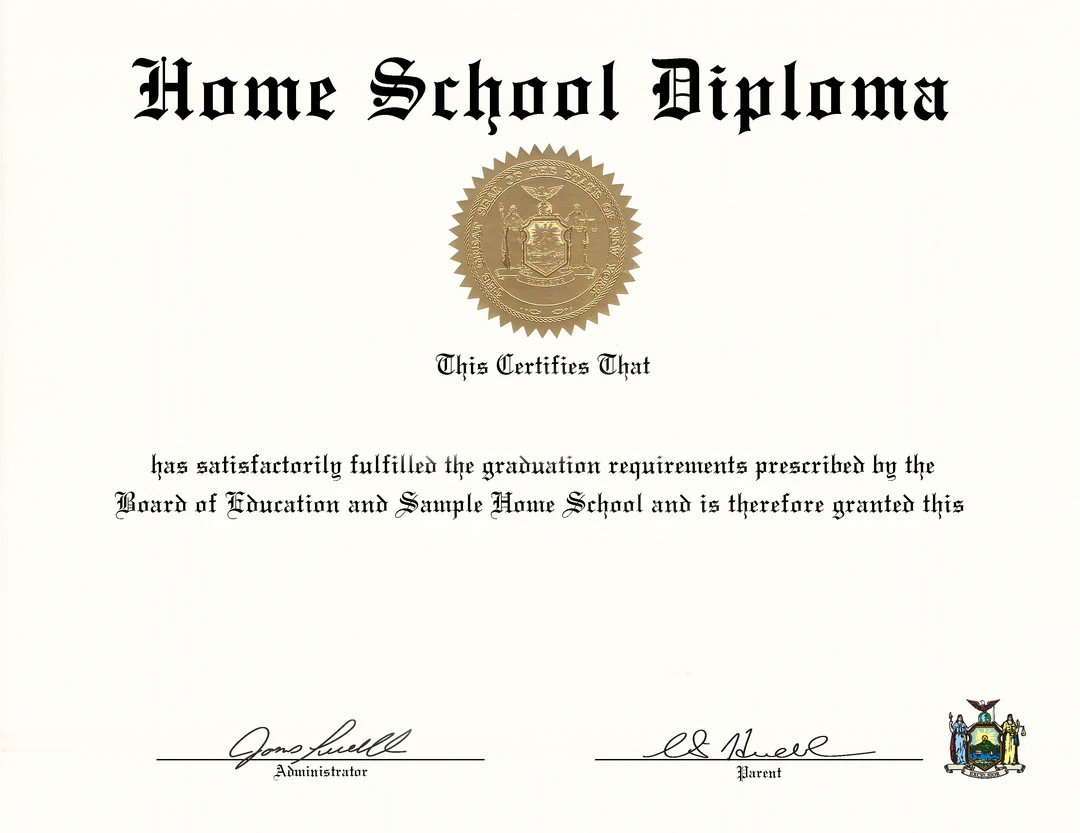
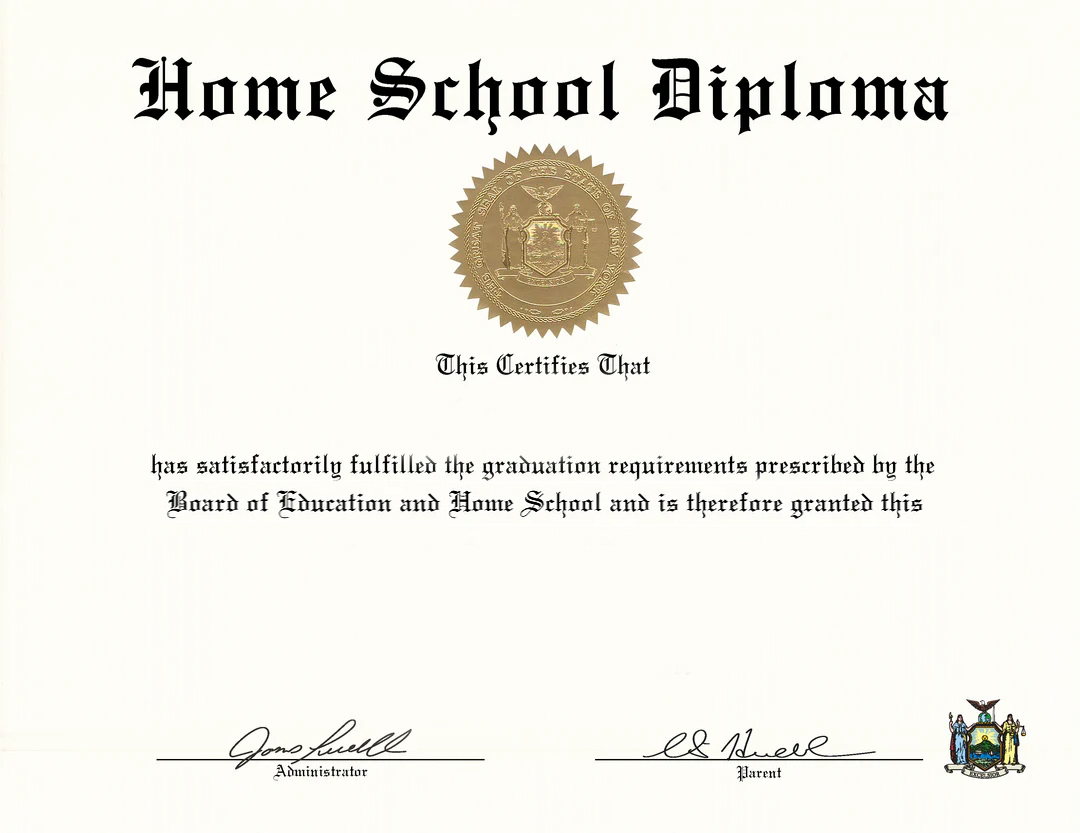
final chage in transcript and diploma

Changed region(s): [[0.0917, 0.593, 0.8861, 0.6242]]

diff --git a/client/src/pages/TranscriptPreview.js b/client/src/pages/TranscriptPreview.js
@@ -5,6 +5,21 @@ import { toPng } from 'html-to-image';
 import axios from 'axios';
 import { useParams } from 'react-router-dom';
 
+function getGradeAndGPA(percent) {
+  if (percent >= 97) return { grade: "A+", gpa: 4.0 };
+  if (percent >= 93) return { grade: "A", gpa: 4.0 };
+  if (percent >= 90) return { grade: "A-", gpa: 3.7 };
+  if (percent >= 87) return { grade: "B+", gpa: 3.3 };
+  if (percent >= 83) return { grade: "B", gpa: 3.0 };
+  if (percent >= 80) return { grade: "B-", gpa: 2.7 };
+  if (percent >= 77) return { grade: "C+", gpa: 2.3 };
+  if (percent >= 73) return { grade: "C", gpa: 2.0 };
+  if (percent >= 70) return { grade: "C-", gpa: 1.7 };
+  if (percent >= 67) return { grade: "D+", gpa: 1.3 };
+  if (percent >= 65) return { grade: "D", gpa: 1.0 };
+  return { grade: "E/F", gpa: 0.0 };
+}
+
 function TranscriptPreview() {
   const ref = useRef();
   const { id } = useParams();
@@ -12,14 +27,6 @@ function TranscriptPreview() {
   const [user, setUser] = useState(null);
   const [error, setError] = useState('');
   const [loading, setLoading] = useState(true);
-
-  const calculateGPAFromPercent = (percent) => {
-    if (percent >= 90) return 4.0;
-    if (percent >= 80) return 3.0;
-    if (percent >= 70) return 2.0;
-    if (percent >= 60) return 1.0;
-    return 0.0;
-  };
 
   const exportToImage = () => {
     if (!ref.current) return;
@@ -39,7 +46,6 @@ function TranscriptPreview() {
         const [studentRes, userRes] = await Promise.all([
          axios.get(`${process.env.REACT_APP_API_URL}/api/students/${id}`, { withCredentials: true }),
          axios.get(`${process.env.REACT_APP_API_URL}/api/users/me`, { withCredentials: true })
-
         ]);
         setStudent(studentRes.data);
         setUser(userRes.data);
@@ -59,8 +65,6 @@ function TranscriptPreview() {
     return <DashboardLayout><p className="text-danger text-center p-5">{error}</p></DashboardLayout>;
 
   const gradeNum = parseInt(student.grade);
-
-  // Total credits logic (respects creditDef)
   const creditDef = user?.state?.creditDefinition || '';
   const isPrimary = !isNaN(gradeNum) && gradeNum <= 5;
 
@@ -79,6 +83,94 @@ function TranscriptPreview() {
       return sum + (subj.isCompleted ? (subj.creditHours || 0) : 0);
     }
   }, 0);
+
+  // GPA calculation for grades 6+ only, using weighted average of course GPA by credits
+  let cumulativeGPA = null;
+  let courseRows = [];
+  if ((creditDef === 'Carnegie Unit' || creditDef === 'Local') && gradeNum >= 6) {
+    let totalWeightedGPA = 0;
+    let totalEarnedCredits = 0;
+    courseRows = student.subjects.map((subj, idx) => {
+      const credit = subj.creditHours || 0;
+      const logs = subj.dailyLogs || [];
+      let percent = null;
+      if (subj.totalMarks > 0 && subj.obtainedMarks >= 0) {
+        percent = (subj.obtainedMarks / subj.totalMarks) * 100;
+      }
+      if (percent === null || isNaN(percent)) {
+        const validLogs = logs.filter(log => typeof log.percentage === 'number');
+        if (validLogs.length > 0) {
+          const sum = validLogs.reduce((acc, log) => acc + log.percentage, 0);
+          percent = sum / validLogs.length;
+        }
+      }
+      let gradeInfo = { grade: "Incomplete", gpa: "–" };
+      let earnedCredits = "0.00";
+      if (percent != null) {
+        gradeInfo = getGradeAndGPA(percent);
+        earnedCredits = credit.toFixed(2);
+        totalWeightedGPA += gradeInfo.gpa * credit;
+        totalEarnedCredits += credit;
+      }
+      return (
+        <div className="table-row" key={idx}>
+          <div className="w-50">{subj.subjectName}</div>
+          <div>{percent != null ? `${Math.round(percent)}% (${gradeInfo.grade})` : "Incomplete"}</div>
+          <div>{earnedCredits}</div>
+          <div>{gradeInfo.gpa !== "–" ? gradeInfo.gpa.toFixed(2) : "–"}</div>
+        </div>
+      );
+    });
+    cumulativeGPA = totalEarnedCredits > 0 ? (totalWeightedGPA / totalEarnedCredits) : 0;
+  } else {
+    // For lower grades or other credit types
+    courseRows = student.subjects.map((subj, idx) => {
+      const credit = subj.creditHours || 0;
+      const logs = subj.dailyLogs || [];
+      let percent = null;
+      if (subj.totalMarks > 0 && subj.obtainedMarks >= 0) {
+        percent = (subj.obtainedMarks / subj.totalMarks) * 100;
+      }
+      if (percent === null || isNaN(percent)) {
+        const validLogs = logs.filter(log => typeof log.percentage === 'number');
+        if (validLogs.length > 0) {
+          const sum = validLogs.reduce((acc, log) => acc + log.percentage, 0);
+          percent = sum / validLogs.length;
+        }
+      }
+      let gradeInfo = { grade: "Incomplete", gpa: "–" };
+      let earnedCredits = "0.00";
+      if (creditDef === 'Carnegie Unit' || creditDef === 'Local') {
+        if (!isNaN(gradeNum) && gradeNum < 6) {
+          const passCount = logs.filter(l => l.status === 'pass').length;
+          const failCount = logs.filter(l => l.status === 'fail').length;
+          const isPass = passCount >= failCount;
+          const finalGrade = logs.length > 0 ? (isPass ? 'Pass' : 'Fail') : 'Incomplete';
+          earnedCredits = (finalGrade === 'Pass' ? credit.toFixed(2) : '0.00');
+          return (
+            <div className="table-row" key={idx}>
+              <div className="w-50">{subj.subjectName}</div>
+              <div>{finalGrade}</div>
+              <div>{earnedCredits}</div>
+              <div>–</div>
+            </div>
+          );
+        }
+      }
+      if (percent != null) {
+        gradeInfo = getGradeAndGPA(percent);
+        earnedCredits = credit.toFixed(2);
+      }
+      return (
+        <div className="table-row" key={idx}>
+          <div className="w-50">{subj.subjectName}</div>
+          <div>{percent != null ? `${Math.round(percent)}% (${gradeInfo.grade})` : "Incomplete"}</div>
+          <div>{earnedCredits}</div>
+          <div>{gradeInfo.gpa !== "–" ? gradeInfo.gpa.toFixed(2) : "–"}</div>
+        </div>
+      );
+    });
+  }
 
   return (
     <DashboardLayout>
@@ -108,7 +200,7 @@ function TranscriptPreview() {
               <div className="w-50">Course</div>
               <div>
                 {(creditDef === 'Carnegie Unit' || creditDef === 'Local')
-                  ? (gradeNum >= 6 ? 'Final Grade' : 'Pass/Fail')
+                  ? (gradeNum >= 6 ? 'Final Grade (Letter)' : 'Pass/Fail')
                   : 'Status'}
               </div>
               <div>Credits Earned</div>
@@ -118,59 +210,7 @@ function TranscriptPreview() {
                   : '—'}
               </div>
             </div>
-
-            {student.subjects.map((subj, idx) => {
-              const credit = subj.creditHours || 0;
-              const logs = subj.dailyLogs || [];
-
-              let percent = null;
-              if (subj.totalMarks > 0 && subj.obtainedMarks >= 0) {
-                percent = (subj.obtainedMarks / subj.totalMarks) * 100;
-              }
-              if (percent === null || isNaN(percent)) {
-                const validLogs = logs.filter(log => typeof log.percentage === 'number');
-                if (validLogs.length > 0) {
-                  const sum = validLogs.reduce((acc, log) => acc + log.percentage, 0);
-                  percent = sum / validLogs.length;
-                }
-              }
-
-              let finalGrade = 'Incomplete';
-              let courseGPA = '–';
-              let earnedCredits = '0.00';
-
-              // Main customized logic:
-              if (creditDef === 'Carnegie Unit' || creditDef === 'Local') {
-                if (!isNaN(gradeNum) && gradeNum >= 6) {
-                  // GPA logic
-                  finalGrade = percent != null ? Math.round(percent) : '—';
-                  courseGPA = percent != null ? calculateGPAFromPercent(percent).toFixed(2) : '–';
-                  earnedCredits = credit.toFixed(2);
-                } else {
-                  // Pass/fail for primary grades
-                  const passCount = logs.filter(l => l.status === 'pass').length;
-                  const failCount = logs.filter(l => l.status === 'fail').length;
-                  const isPass = passCount >= failCount;
-                  finalGrade = logs.length > 0 ? (isPass ? 'Pass' : 'Fail') : 'Incomplete';
-                  courseGPA = '–';
-                  earnedCredits = (finalGrade === 'Pass' ? credit.toFixed(2) : '0.00');
-                }
-              } else {
-                // For all other credit definitions, use isCompleted for all grades
-                finalGrade = subj.isCompleted ? 'Completed' : 'Incomplete';
-                courseGPA = '–';
-                earnedCredits = subj.isCompleted ? credit.toFixed(2) : '0.00';
-              }
-
-              return (
-                <div className="table-row" key={idx}>
-                  <div className="w-50">{subj.subjectName}</div>
-                  <div>{finalGrade}</div>
-                  <div>{earnedCredits}</div>
-                  <div>{courseGPA}</div>
-                </div>
-              );
-            })}
+            {courseRows}
           </div>
 
           <div className="transcript-summary">
@@ -182,7 +222,7 @@ function TranscriptPreview() {
             </p>
             {(creditDef === 'Carnegie Unit' || creditDef === 'Local') && gradeNum >= 6 ? (
               <>
-                <p>Cumulative GPA: {(student.gpa || 0).toFixed(3)}</p>
+                <p>Cumulative GPA: {cumulativeGPA !== null ? cumulativeGPA.toFixed(3) : "0.000"}</p>
                 <p>Total Cumulative Credits: {totalCredits.toFixed(2)}</p>
               </>
             ) : (
@@ -190,9 +230,17 @@ function TranscriptPreview() {
             )}
           </div>
 
-          <p className="transcript-scale">
-            <strong>Grading/GPA Scale:</strong> A 90-100 (4.0), B 80-89 (3.0), C 70-79 (2.0), D 60-69 (1.0), F 0-59 (0.0)
-          </p>
+          <div className="transcript-scale" style={{marginTop: 18, textAlign: "center", fontSize: "0.98em", color: "#444"}}>
+  <strong>GPA Scale:</strong>
+  <div>
+    A+/A (97-100/93-96): 4.0 A- (90-92): 3.7 B+ (87-89): 3.3 B (83-86): 3.0 B- (80-82): 2.7 C+ (77-79): 2.3 
+  </div>
+  <div>
+    C (73-76): 2.0  C- (70-72): 1.7 D+ (67-69): 1.3 D (65-66): 1.0 E/F (below 65): 0.0
+  </div>
+</div>
+
+
         </div>
       </div>
     </DashboardLayout>

diff --git a/backend/controllers/dailyLogController.js b/backend/controllers/dailyLogController.js
@@ -88,31 +88,20 @@ function calculateCredits(hours, hoursPerCredit) {
 }
 
 // GPA Scale (unchanged)
-function percentageToGPA(pct) {
-  if (pct >= 90) return 4.0;
-  if (pct >= 80) return 3.0;
-  if (pct >= 70) return 2.0;
-  if (pct >= 60) return 1.0;
-  return 0.0;
+ function percentageToGPA(pct) {
+  if (pct >= 97) return 4.0;         // A+
+  if (pct >= 93) return 4.0;         // A
+  if (pct >= 90) return 3.7;         // A-
+  if (pct >= 87) return 3.3;         // B+
+  if (pct >= 83) return 3.0;         // B
+  if (pct >= 80) return 2.7;         // B-
+  if (pct >= 77) return 2.3;         // C+
+  if (pct >= 73) return 2.0;         // C
+  if (pct >= 70) return 1.7;         // C-
+  if (pct >= 67) return 1.3;         // D+
+  if (pct >= 65) return 1.0;         // D
+  return 0.0;                        // E/F
 }
-
-// GPA Recalculation (unchanged)
-// async function recalculateStudentGPA(student) {
-//   const logs = await DailyLog.find({ student: student._id });
-//   const validLogs = logs.filter(log => log.percentage > 0 && log.studyTimeMinutes > 0);
-
-//   const totalCredits = student.subjects.reduce((sum, subj) => sum + (subj.creditHours || 0), 0);
-
-//   if (validLogs.length === 0 || totalCredits === 0) {
-//     student.gpa = 0;
-//   } else {
-//     const weightedTotal = validLogs.reduce((sum, log) => sum + (log.percentage * log.studyTimeMinutes), 0);
-//     const totalTime = validLogs.reduce((sum, log) => sum + log.studyTimeMinutes, 0);
-//     const weightedPercentage = weightedTotal / totalTime;
-
-//     student.gpa = percentageToGPA(weightedPercentage).toFixed(2);
-//   }
-// }
 
 async function recalculateStudentGPA(student) {
   let totalCredits = 0;
@@ -143,10 +132,6 @@ async function recalculateStudentGPA(student) {
     student.gpa = (totalWeightedGPA / totalCredits).toFixed(2);
   }
 }
-
-
-
-
 
 // Check if student has logged for a subject before
 exports.hasLoggedSubjectBefore = async (req, res) => {

diff --git a/client/src/pages/Dashboard.js b/client/src/pages/Dashboard.js
@@ -90,6 +90,22 @@ function Dashboard() {
     return (minutes / 60).toFixed(1);
   };
 
+
+   function percentageToGPA(pct) {
+  if (pct >= 97) return 4.0;         // A+
+  if (pct >= 93) return 4.0;         // A
+  if (pct >= 90) return 3.7;         // A-
+  if (pct >= 87) return 3.3;         // B+
+  if (pct >= 83) return 3.0;         // B
+  if (pct >= 80) return 2.7;         // B-
+  if (pct >= 77) return 2.3;         // C+
+  if (pct >= 73) return 2.0;         // C
+  if (pct >= 70) return 1.7;         // C-
+  if (pct >= 67) return 1.3;         // D+
+  if (pct >= 65) return 1.0;         // D
+  return 0.0;                        // E/F
+}
+
   const getMonthlyGpaData = () => {
     if (!selectedData) return [];
     const monthMap = {};
@@ -107,7 +123,7 @@ function Dashboard() {
     return Object.values(monthMap)
       .map(({ month, percentages }) => {
         const avgPct = percentages.reduce((a, b) => a + b, 0) / percentages.length;
-        const gpa = avgPct >= 90 ? 4 : avgPct >= 80 ? 3 : avgPct >= 70 ? 2 : avgPct >= 60 ? 1 : 0;
+        const gpa = percentageToGPA(avgPct);
         return { month, gpa: parseFloat(gpa.toFixed(2)) };
       })
       .sort((a, b) => new Date(`1 ${a.month} 2020`) - new Date(`1 ${b.month} 2020`));

diff --git a/client/src/components/ViewStudentModal.js b/client/src/components/ViewStudentModal.js
@@ -30,12 +30,19 @@ function ViewStudentModal({ show, handleClose, student }) {
 
   const isPrimaryStudent = student?.grade <= 5;
 
-  const calculateGPAFromPercent = (percent) => {
-    if (percent >= 90) return 4.0;
-    else if (percent >= 80) return 3.0;
-    else if (percent >= 70) return 2.0;
-    else if (percent >= 60) return 1.0;
-    else return 0.0;
+   const calculateGPAFromPercent = (pct) => {
+     if (pct >= 97) return 4.0;         // A+
+  if (pct >= 93) return 4.0;         // A
+  if (pct >= 90) return 3.7;         // A-
+  if (pct >= 87) return 3.3;         // B+
+  if (pct >= 83) return 3.0;         // B
+  if (pct >= 80) return 2.7;         // B-
+  if (pct >= 77) return 2.3;         // C+
+  if (pct >= 73) return 2.0;         // C
+  if (pct >= 70) return 1.7;         // C-
+  if (pct >= 67) return 1.3;         // D+
+  if (pct >= 65) return 1.0;         // D
+  return 0.0;            
   };
 
   const calculateSubjectStats = (subject) => {
